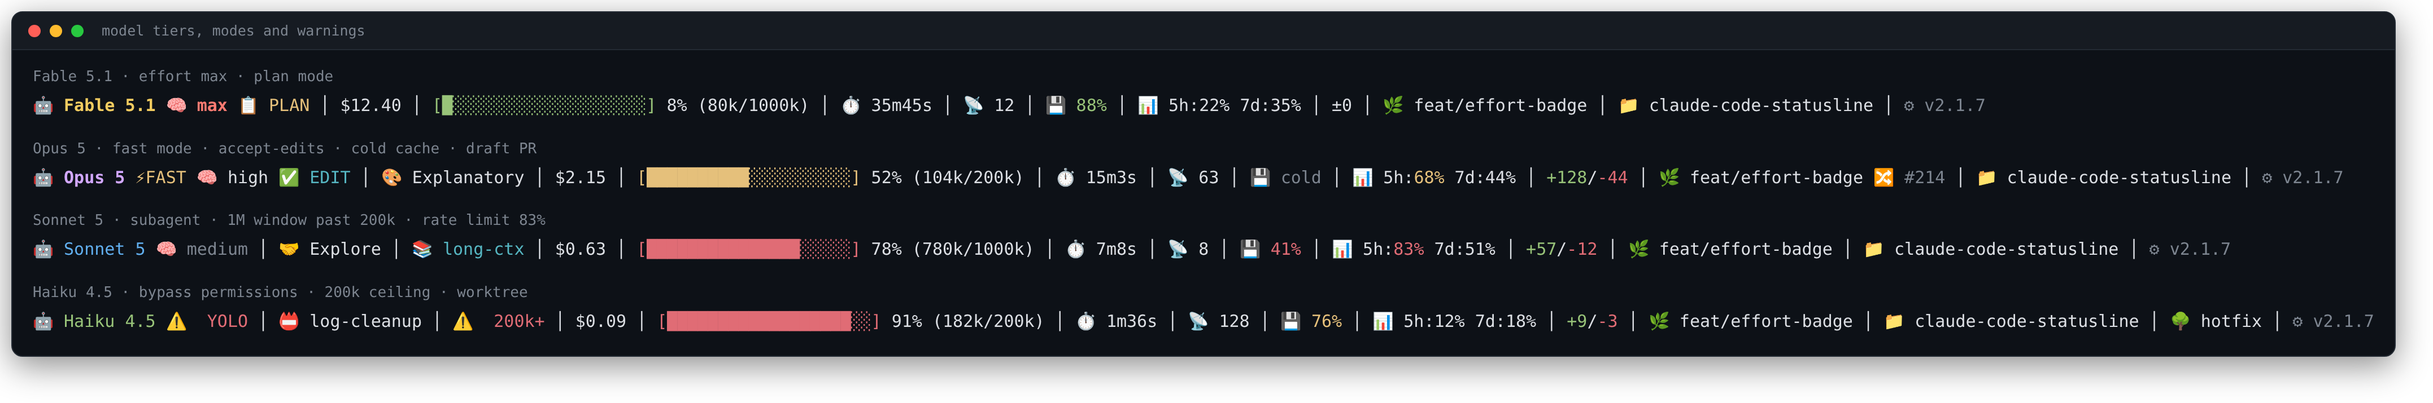
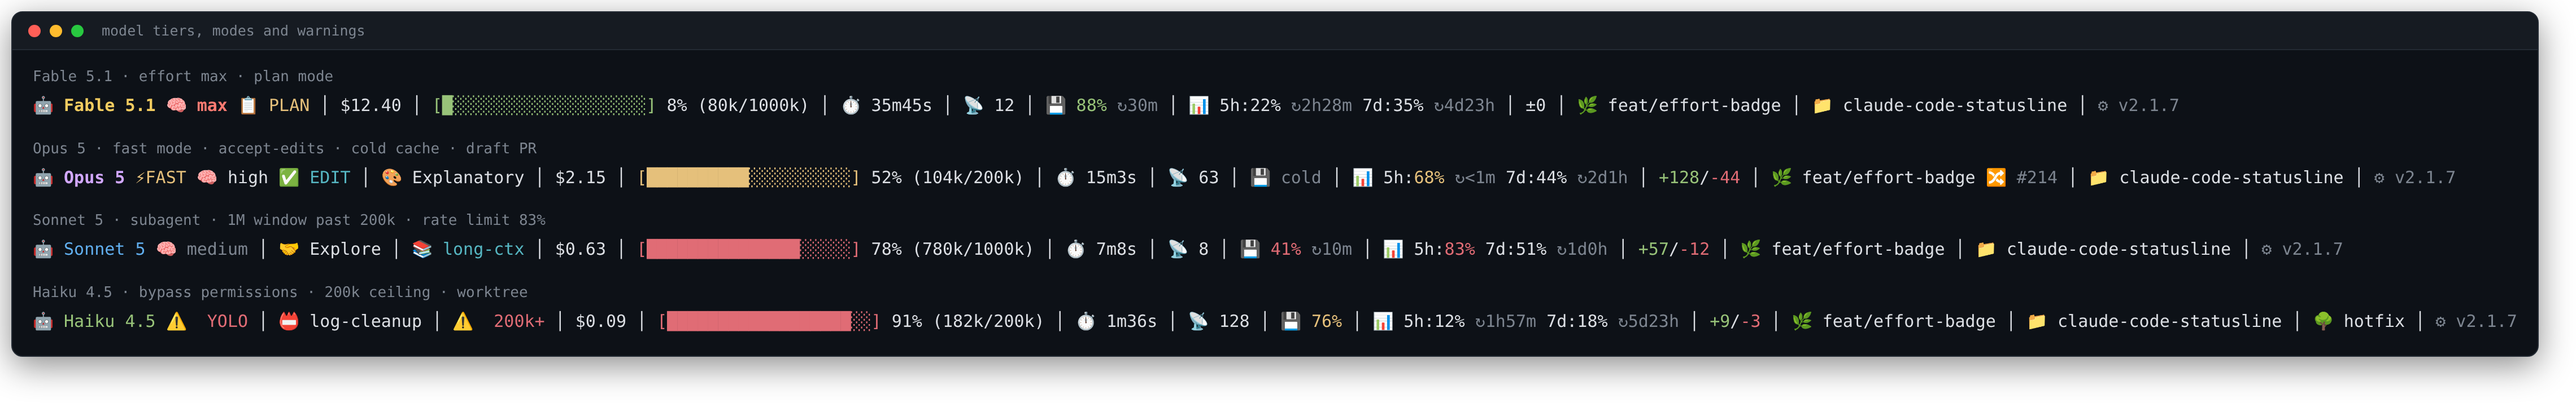
Add rate-limit reset and cache TTL countdowns, blinking red quota (v0.5.0)
Claude Code 2.1.259 sends resets_at / expires_at timestamps that the statusline
was throwing away, so the quota segments could tell you how much was used but
never how long until it came back.

- 📊 5h:13% ↻28m 7d:25% ↻2d23h — dim countdown to each rate-limit window reset
  from rate_limits.{five_hour,seven_day}.resets_at, formatted by distance
  (2d23h / 4h12m / 28m / <1m). Silent when the field is missing or in the past.
- 💾 99% ↻58m — prompt-cache TTL left from prompt_cache.expires_at; an already
  cold cache keeps its dim 💾 cold with no countdown.
- ≥95% used (under 5% of the window left) now blinks in bold red instead of
  sharing the plain red of the 80-94% band.
- ↻ is U+21BB, not the prettier U+27F3 — the latter is absent from DejaVu Sans
  Mono and most terminal fonts, where it renders as tofu.
- Docs in both languages now say outright that the 📊 percentage is the share
  used, not the share remaining, and point at /usage for exact reset times.
- New screenshots/quota.png plus regenerated shots for the other four.

Claude-Session: https://claude.ai/code/session_015X5nSs5R2wR7aRzBr8Jb2D

diff --git a/README.md b/README.md
@@ -13,14 +13,14 @@ A customizable, informative status bar for the [Claude Code](https://docs.anthro
 **Single line** (default):
 
 ```
-🤖 Fable 5.1 🧠 xhigh 📋 PLAN │ $0.51 │ [████░░░░░░░░░░░░░░░░] 24% (240k/1000k) │ ⏱ 6m51s │ 📡 5 │ 💾 91% │ +12/-3 │ 🌿 main 🔀 #42 │ 📁 my-project
+🤖 Fable 5.1 🧠 xhigh 📋 PLAN │ $0.51 │ [████░░░░░░░░░░░░░░░░] 24% (240k/1000k) │ ⏱ 6m51s │ 📡 5 │ 💾 91% ↻47m │ 📊 5h:13% ↻28m 7d:25% ↻2d23h │ +12/-3 │ 🌿 main 🔀 #42 │ 📁 my-project
 ```
 
 **Two lines** (`STATUSLINE_LAYOUT=2`) — identity on top, metrics below:
 
 ```
 🤖 Fable 5.1 🧠 xhigh 📋 PLAN │ 🌿 main 🔀 #42 │ 📁 my-project
-$0.51 │ [████░░░░░░░░░░░░░░░░] 24% (240k/1000k) │ ⏱ 6m51s │ 📡 5 │ 💾 91% │ +12/-3
+$0.51 │ [████░░░░░░░░░░░░░░░░] 24% (240k/1000k) │ ⏱ 6m51s │ 📡 5 │ 💾 91% ↻47m │ 📊 5h:13% ↻28m │ +12/-3
 ```
 
 ## Table of contents
@@ -49,6 +49,12 @@ $0.51 │ [████░░░░░░░░░░░░░░░░] 24% (24
 
 All shots below are the real script output, rendered from the same sample
 stdin JSON — nothing is mocked up by hand.
+
+**Quota** — the `📊` percentages are the share **used**, and the dim `↻` says
+when each window rolls over. Below 5% left (95%+ used) the value turns blinking
+bold red, which a still image can only hint at with a glow.
+
+![Rate limit usage with reset countdown](screenshots/quota.png)
 
 **Feature profiles** — the same session in `minimal`, `standard` and `full`
 (default). Each step up adds segments: token detail and API count, then the
@@ -87,8 +93,8 @@ an 83% five-hour rate limit in red; Haiku 4.5 at the real 200k ceiling (red
 | (Xk/200k) | Token usage (used/total) |
 | ⏱ Xm | Session duration |
 | 📡 N | Number of API calls in this session |
-| 💾 X% | Prompt-cache hit ratio — green ≥80%, yellow ≥50%, red below; dim `💾 cold` when the cache has expired |
-| 📊 5h:X% 7d:Y% | Claude.ai Pro/Max rate limit usage — yellow at ≥60%, red at ≥80% |
+| 💾 X% ↻47m | Prompt-cache hit ratio — green ≥80%, yellow ≥50%, red below, with a dim countdown to the TTL expiry; dim `💾 cold` when the cache has expired |
+| 📊 5h:X% ↻28m 7d:Y% | Claude.ai Pro/Max rate limit **used** share — yellow at ≥60%, red at ≥80%, **blinking red at ≥95%** (under 5% of the quota left) — with a dim `↻` countdown to the window reset |
 | +X/-Y | Lines added/removed |
 | 🌿 branch | Current git branch (* = uncommitted changes) |
 | 🔀 #123 | Open pull request on the branch (`!123` for GitLab MRs) — green approved, red changes requested, dim draft |
@@ -310,7 +316,7 @@ When you toggle `/fast` in Claude Code, the statusline shows `⚡FAST` in yellow
 
 ### Prompt cache
 
-`💾 91%` shows the prompt-cache hit ratio of the main conversation from the `prompt_cache` stdin field: green ≥80%, yellow ≥50%, red below. When the cache has gone cold (the 1-hour TTL expired — the next request re-writes the whole prefix) it shows a dim `💾 cold` instead. Only in the `full` profile, and only once at least one request has been made.
+`💾 91%` shows the prompt-cache hit ratio of the main conversation from the `prompt_cache` stdin field: green ≥80%, yellow ≥50%, red below. A dim `↻47m` after the ratio counts down the TTL from `prompt_cache.expires_at` — that is how long you have before the next request re-writes the whole prefix. When the cache has gone cold it shows a dim `💾 cold` instead. Only in the `full` profile, and only once at least one request has been made.
 
 ### PR badge
 
@@ -346,7 +352,9 @@ Tracks total lines added and removed during the session. Shows `±0` when no cha
 
 ### Rate limits (Pro/Max only)
 
-Displays your Claude.ai 5-hour and 7-day rate limit consumption (`📊 5h:42% 7d:87%`) when the `rate_limits` field is present in the JSON input. Only shown in the `full` profile. Each percentage is color-coded: plain below 60%, yellow at 60–79%, red at 80%+ — so you notice you're approaching the limit before hitting it.
+Displays your Claude.ai 5-hour and 7-day rate limit consumption (`📊 5h:42% ↻28m 7d:87% ↻2d23h`) when the `rate_limits` field is present in the JSON input. Only shown in the `full` profile. Each percentage is color-coded: plain below 60%, yellow at 60–79%, red at 80–94%, and **blinking bold red from 95%** — that last one means under 5% of the window is left, the one state worth interrupting you for. Blink is `SGR 5`; terminals that ignore it (some minimal ones do) still show the bold red.
+
+The percentage is the share **already used**, not what is left: `5h:13%` means 13% consumed, 87% still available. The dim `↻` countdown after it is the time until that window rolls over and the used share drops back to zero, computed from `rate_limits.*.resets_at`. It is omitted when the field is absent (older Claude Code) or already in the past — a stale reset time would be worse than none. For exact figures and reset timestamps, use Claude Code's built-in `/usage`.
 
 ### Worktree & agent indicators
 
@@ -390,7 +398,7 @@ Fast mode, effort level, prompt-cache stats and the open PR all come straight fr
 - `model.id` — model ID (e.g. `claude-fable-5-1`) — fallback for tier detection
 - `fast_mode` — whether `/fast` is on (`⚡FAST`)
 - `effort.level` — live reasoning effort `low`/`medium`/`high`/`xhigh`/`max` (`🧠`); absent when unsupported
-- `prompt_cache.{warm,hit_ratio,requests}` — main-conversation cache stats (`💾`)
+- `prompt_cache.{warm,hit_ratio,requests,expires_at}` — main-conversation cache stats and TTL countdown (`💾`)
 - `pr.{number,review_state,kind}` — open PR / MR on the current branch (`🔀`)
 - `version` — Claude Code version (shown as `⚙ vX.Y.Z` in the full profile)
 - `cost.total_cost_usd` — session cost
@@ -399,7 +407,7 @@ Fast mode, effort level, prompt-cache stats and the open PR all come straight fr
 - `context_window.used_percentage` — context usage % (float — floored with `jq | floor`)
 - `context_window.context_window_size` — max context tokens (200k default, 1M for extended-context models)
 - `exceeds_200k_tokens` — whether the session crossed 200k tokens
-- `rate_limits.{five_hour,seven_day}.used_percentage` — Pro/Max rate-limit usage
+- `rate_limits.{five_hour,seven_day}.{used_percentage,resets_at}` — Pro/Max rate-limit usage and window reset (`📊`)
 - `output_style.name` — active output style
 - `agent.name` — active subagent (when running with `--agent`)
 - `session_name` — custom name set via `--name` / `/rename`
@@ -425,8 +433,8 @@ Fast mode, effort level, prompt-cache stats and the open PR all come straight fr
 | (Xk/Xk) | Tokens used/total | Derived from `used_percentage * context_window_size` / `context_window_size` |
 | ⏱ | Session duration | `cost.total_duration_ms` — auto-formats: Xs, XmXs, or XhXm |
 | 📡 N | API call count | Counts `"type":"assistant"` entries in transcript JSONL |
-| 💾 X% / cold | Prompt cache | `prompt_cache.hit_ratio` × 100 — 🟢 ≥80%, 🟡 ≥50%, 🔴 below; dim `cold` when `prompt_cache.warm` is false (full profile) |
-| 📊 5h:X% 7d:Y% | Rate limits | `rate_limits.five_hour` / `rate_limits.seven_day` — Pro/Max only, per-value coloring: 🟡 ≥60%, 🔴 ≥80% (full profile) |
+| 💾 X% ↻ / cold | Prompt cache | `prompt_cache.hit_ratio` × 100 — 🟢 ≥80%, 🟡 ≥50%, 🔴 below; dim `↻` = TTL left from `expires_at`; dim `cold` when `prompt_cache.warm` is false (full profile) |
+| 📊 5h:X% ↻ 7d:Y% ↻ | Rate limits | `rate_limits.five_hour` / `rate_limits.seven_day` — used share, Pro/Max only, per-value coloring: 🟡 ≥60%, 🔴 ≥80%, 🔴✨ blinking ≥95%; dim `↻` = time to `resets_at` (full profile) |
 | +X/-Y | Lines changed | `cost.total_lines_added` / `cost.total_lines_removed` — green/red colored |
 | 🌿 | Git branch | `git branch --show-current` in workspace dir, `*` suffix = uncommitted changes |
 | 🔀 #N / !N | Open PR / MR | `pr.number` (+ `pr.kind` = `mr` → `!`), colored by `pr.review_state`: 🟢 approved, 🔴 changes_requested, dim draft (full profile) |
@@ -569,14 +577,14 @@ Testreszabhato, informativ status bar a [Claude Code](https://docs.anthropic.com
 **Egysoros** (alapertelmezett):
 
 ```
-🤖 Fable 5.1 🧠 xhigh 📋 PLAN │ $0.51 │ [████░░░░░░░░░░░░░░░░] 24% (240k/1000k) │ ⏱ 6m51s │ 📡 5 │ 💾 91% │ +12/-3 │ 🌿 main 🔀 #42 │ 📁 my-project
+🤖 Fable 5.1 🧠 xhigh 📋 PLAN │ $0.51 │ [████░░░░░░░░░░░░░░░░] 24% (240k/1000k) │ ⏱ 6m51s │ 📡 5 │ 💾 91% ↻47m │ 📊 5h:13% ↻28m 7d:25% ↻2d23h │ +12/-3 │ 🌿 main 🔀 #42 │ 📁 my-project
 ```
 
 **Ketsoros** (`STATUSLINE_LAYOUT=2`) — identitas felul, metrikak alul:
 
 ```
 🤖 Fable 5.1 🧠 xhigh 📋 PLAN │ 🌿 main 🔀 #42 │ 📁 my-project
-$0.51 │ [████░░░░░░░░░░░░░░░░] 24% (240k/1000k) │ ⏱ 6m51s │ 📡 5 │ 💾 91% │ +12/-3
+$0.51 │ [████░░░░░░░░░░░░░░░░] 24% (240k/1000k) │ ⏱ 6m51s │ 📡 5 │ 💾 91% ↻47m │ 📊 5h:13% ↻28m │ +12/-3
 ```
 
 ## Tartalom
@@ -605,6 +613,13 @@ $0.51 │ [████░░░░░░░░░░░░░░░░] 24% (24
 
 Minden kep a script valodi kimenete, ugyanabbol a minta stdin JSON-bol
 rendelve — semmi nincs kezzel osszerakva.
+
+**Keret** — a `📊` szazalekok az **elhasznalt** reszt mutatjak, a halvany `↻`
+pedig azt, mikor fordul at az adott ablak. 5% alatti maradeknal (95%+ hasznalat)
+az ertek villogo felkover pirosra valt — ezt egy allokep csak derengessel tudja
+jelezni.
+
+![Rate limit hasznalat reset-visszaszamlalassal](screenshots/quota.png)
 
 **Profilok** — ugyanaz a session `minimal`, `standard` es `full`
 (alapertelmezett) profilban. Minden szint ujabb szegmenseket hoz: token-reszlet
@@ -644,8 +659,8 @@ a valodi 200k plafonon (piros `⚠ 200k+`), bypass-permissions modban, worktr
 | (Xk/200k) | Token hasznalat (felhasznalt/osszes) |
 | ⏱ Xm | Session idotartam |
 | 📡 N | API hivasok szama a sessionben |
-| 💾 X% | Prompt-cache talalati arany — zold ≥80%, sarga ≥50%, piros alatta; halvany `💾 cold`, ha a cache lejart |
-| 📊 5h:X% 7d:Y% | Claude.ai Pro/Max rate limit hasznalat — sarga ≥60%, piros ≥80% |
+| 💾 X% ↻47m | Prompt-cache talalati arany — zold ≥80%, sarga ≥50%, piros alatta, halvany visszaszamlalassal a TTL lejartaig; halvany `💾 cold`, ha a cache lejart |
+| 📊 5h:X% ↻28m 7d:Y% | Claude.ai Pro/Max rate limit **elhasznalt** aranya — sarga ≥60%, piros ≥80%, **villogo piros ≥95%** (5% alatti maradek) — halvany `↻` visszaszamlalassal az ablak nullazodasaig |
 | +X/-Y | Hozzaadott/torolt sorok |
 | 🌿 branch | Aktualis git branch (* = nem commitolt valtozasok) |
 | 🔀 #123 | Nyitott pull request a branchen (`!123` GitLab MR-nel) — zold approved, piros changes requested, halvany draft |
@@ -867,7 +882,7 @@ A `🧠 xhigh` az elo reasoning-effort szintet mutatja az `effort.level` stdin m
 
 ### Prompt cache
 
-A `💾 91%` a fo beszelgetes prompt-cache talalati aranyat mutatja a `prompt_cache` stdin mezobol: zold ≥80%, sarga ≥50%, piros alatta. Ha a cache kihult (lejart az 1 oras TTL — a kovetkezo keres ujrairja a teljes prefixet), halvany `💾 cold` latszik helyette. Csak a `full` profilban, es csak miutan legalabb egy keres tortent.
+A `💾 91%` a fo beszelgetes prompt-cache talalati aranyat mutatja a `prompt_cache` stdin mezobol: zold ≥80%, sarga ≥50%, piros alatta. Az arany utani halvany `↻47m` a TTL-t szamolja vissza a `prompt_cache.expires_at` mezobol — ennyi idod van, mielott a kovetkezo keres ujrairja a teljes prefixet. Ha a cache kihult, halvany `💾 cold` latszik helyette. Csak a `full` profilban, es csak miutan legalabb egy keres tortent.
 
 ### PR jelzo
 
@@ -903,7 +918,9 @@ A sessionben hozzaadott/torolt sorok osszege. `±0` ha nincs valtozas.
 
 ### Rate limits (csak Pro/Max)
 
-A Claude.ai 5 oras es 7 napos rate limit hasznalatot mutatja (`📊 5h:42% 7d:87%`), ha a `rate_limits` mezo jelen van. Csak a `full` profilban. Az ertekek szinezettek: 60% alatt sima, 60–79% sarga, 80%-tol piros — igy meg a limit elerese elott feltunik, hogy kozeledsz hozza.
+A Claude.ai 5 oras es 7 napos rate limit hasznalatot mutatja (`📊 5h:42% ↻28m 7d:87% ↻2d23h`), ha a `rate_limits` mezo jelen van. Csak a `full` profilban. Az ertekek szinezettek: 60% alatt sima, 60–79% sarga, 80–94% piros, **95%-tol villogo felkover piros** — ez utobbi azt jelenti, hogy 5% alatti a maradek keret, es ez az egyetlen allapot, ami megeri a figyelemelvonast. A villogas `SGR 5`; ha a terminalod nem tamogatja, akkor is felkover pirosat lat.
+
+A szazalek az **elhasznalt** resz, nem a maradek: `5h:13%` azt jelenti, hogy 13% fogyott el, es 87% meg szabad. Az utana allo halvany `↻` visszaszamlalas azt mutatja, mennyi ido mulva fordul at az ablak es esik vissza nullara az elhasznalt resz — a `rate_limits.*.resets_at` mezobol. Ha a mezo hianyzik (regebbi Claude Code) vagy mar a multban van, a visszaszamlalas elmarad — egy elavult reset-ido rosszabb, mint a semmi. Pontos szamokhoz es idopontokhoz a Claude Code beepitett `/usage` parancsa valo.
 
 ### Worktree es agent jelzok
 
@@ -958,8 +975,8 @@ A fast mode, az effort szint, a prompt-cache statisztika es a nyitott PR kozvetl
 | (Xk/Xk) | Tokenek (hasznalt/osszes) | `used_percentage * context_window_size` / `context_window_size` |
 | ⏱ | Session idotartam | `cost.total_duration_ms` — formatum: Xs, XmXs, vagy XhXm |
 | 📡 N | API hivasok szama | `"type":"assistant"` bejegyzesek szama a transcript JSONL-ben |
-| 💾 X% / cold | Prompt cache | `prompt_cache.hit_ratio` × 100 — 🟢 ≥80%, 🟡 ≥50%, 🔴 alatta; halvany `cold`, ha a `prompt_cache.warm` false (full profil) |
-| 📊 5h:X% 7d:Y% | Rate limits | `rate_limits.five_hour` / `rate_limits.seven_day` — csak Pro/Max, ertekenkent szinezve: 🟡 ≥60%, 🔴 ≥80% (full profil) |
+| 💾 X% ↻ / cold | Prompt cache | `prompt_cache.hit_ratio` × 100 — 🟢 ≥80%, 🟡 ≥50%, 🔴 alatta; halvany `↻` = hatralevo TTL az `expires_at`-bol; halvany `cold`, ha a `prompt_cache.warm` false (full profil) |
+| 📊 5h:X% ↻ 7d:Y% ↻ | Rate limits | `rate_limits.five_hour` / `rate_limits.seven_day` — elhasznalt arany, csak Pro/Max, ertekenkent szinezve: 🟡 ≥60%, 🔴 ≥80%, 🔴✨ villogo ≥95%; halvany `↻` = ido a `resets_at`-ig (full profil) |
 | +X/-Y | Sorok valtozasa | `cost.total_lines_added` / `cost.total_lines_removed` — zold/piros |
 | 🌿 | Git branch | `git branch --show-current`, `*` = nem commitolt valtozasok |
 | 🔀 #N / !N | Nyitott PR / MR | `pr.number` (+ `pr.kind` = `mr` → `!`), a `pr.review_state` szerint szinezve: 🟢 approved, 🔴 changes_requested, halvany draft (full profil) |

diff --git a/CHANGELOG.md b/CHANGELOG.md
@@ -3,6 +3,35 @@
 All notable changes to this project are documented here.
 The format is based on [Keep a Changelog](https://keepachangelog.com/en/1.1.0/).
 
+## [0.5.0]
+
+Makes the quota segments answer the question they were silently raising: *how
+much is left, and until when?* Claude Code 2.1.259 ships `resets_at` and
+`expires_at` timestamps that the statusline was not reading.
+
+### Added
+- **Rate-limit reset countdown** — `📊 5h:13% ↻28m 7d:25% ↻2d23h`. The dim `↻`
+  is the time until that window rolls over, from
+  `rate_limits.{five_hour,seven_day}.resets_at`. Format adapts to the distance:
+  `2d23h` / `4h12m` / `28m` / `<1m`. Silent when the field is absent (older
+  Claude Code) or already in the past — a stale reset time is worse than none.
+- **Prompt-cache TTL countdown** — `💾 99% ↻58m` from `prompt_cache.expires_at`:
+  how long before the cache goes cold and the next request re-writes the whole
+  prefix. Not shown on an already-cold cache, which keeps its dim `💾 cold`.
+- **Blinking red rate limit at ≥95% used** — under 5% of the window left is the
+  one state worth interrupting for, so it blinks (`SGR 5`) in bold red instead
+  of sharing the plain red of the 80–94% band. Terminals that ignore blink
+  still show the bold red.
+
+### Changed
+- The `📊` docs now state explicitly that the percentage is the share **used**,
+  not the share remaining (`5h:13%` = 13% consumed, 87% still available) — the
+  most common misreading of the segment.
+
+### Notes
+- Timestamps are compared against `printf '%(%s)T'` with a `date +%s` fallback,
+  so no extra process is forked per render on bash 4.2+.
+
 ## [0.4.0]
 
 Adapts the statusline to the Claude Code stdin fields that arrived with the
